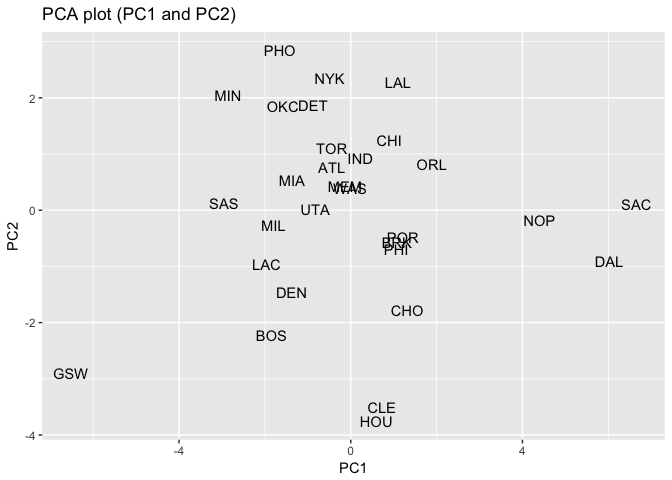
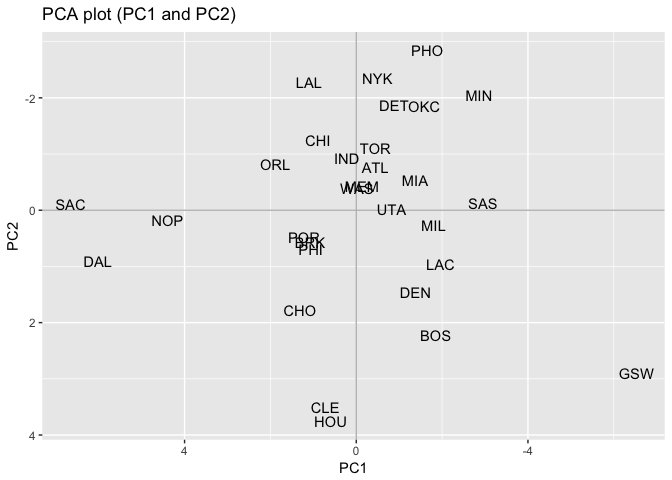
two pca plots

diff --git a/hw03/report/hw03-sierra-park.md b/hw03/report/hw03-sierra-park.md
@@ -685,10 +685,16 @@ teams
     ## 30   143.0117 -0.01584476  0.39647434  51.680440
 
 ``` r
-ggplot(data = teams, aes(x = teams$PC1, y = teams$PC2)) + geom_text(aes(label = teams$team)) + ggtitle(label = "PCA plot (PC1 and PC2)") + labs(x ="PC1", y = "PC2")
+ggplot(data = scores, aes(x = PC1, y = -PC2)) + geom_hline(yintercept = 0, color = "gray") + geom_vline(xintercept = 0, color = "gray") + geom_text(label = teams$team) + ggtitle("PCA plot (PC1 and PC2)") + scale_x_reverse() + scale_y_reverse() + labs(x ="PC1", y = "PC2")
 ```
 
 ![](hw03-sierra-park_files/figure-markdown_github-ascii_identifiers/unnamed-chunk-14-1.png)
+
+``` r
+ggplot(data = teams, aes(x = -PC1, y = PC2)) + geom_text(aes(label = team)) + ggtitle(label = "PCA plot (PC1 and PC2)") + labs(x ="PC1", y = "PC2")
+```
+
+![](hw03-sierra-park_files/figure-markdown_github-ascii_identifiers/unnamed-chunk-15-1.png)
 
 Index based on PC1
 ------------------
@@ -702,7 +708,7 @@ teams$scaledPC <- s1
 ggplot(teams, aes(x = reorder(team, scaledPC), y = scaledPC))+ geom_bar(stat = 'identity') + coord_flip() + labs(y = "First PC (scaled from 0 to 100)", x = "Team") + ggtitle("NBA Teams ranked by scaled PC1") + theme(plot.title = element_text(hjust = 0.5))
 ```
 
-![](hw03-sierra-park_files/figure-markdown_github-ascii_identifiers/unnamed-chunk-16-1.png)
+![](hw03-sierra-park_files/figure-markdown_github-ascii_identifiers/unnamed-chunk-17-1.png)
 
 DESCRIPTION: Ranking by the scaled PC1, GSW seems to rank first by a significant difference.
 
